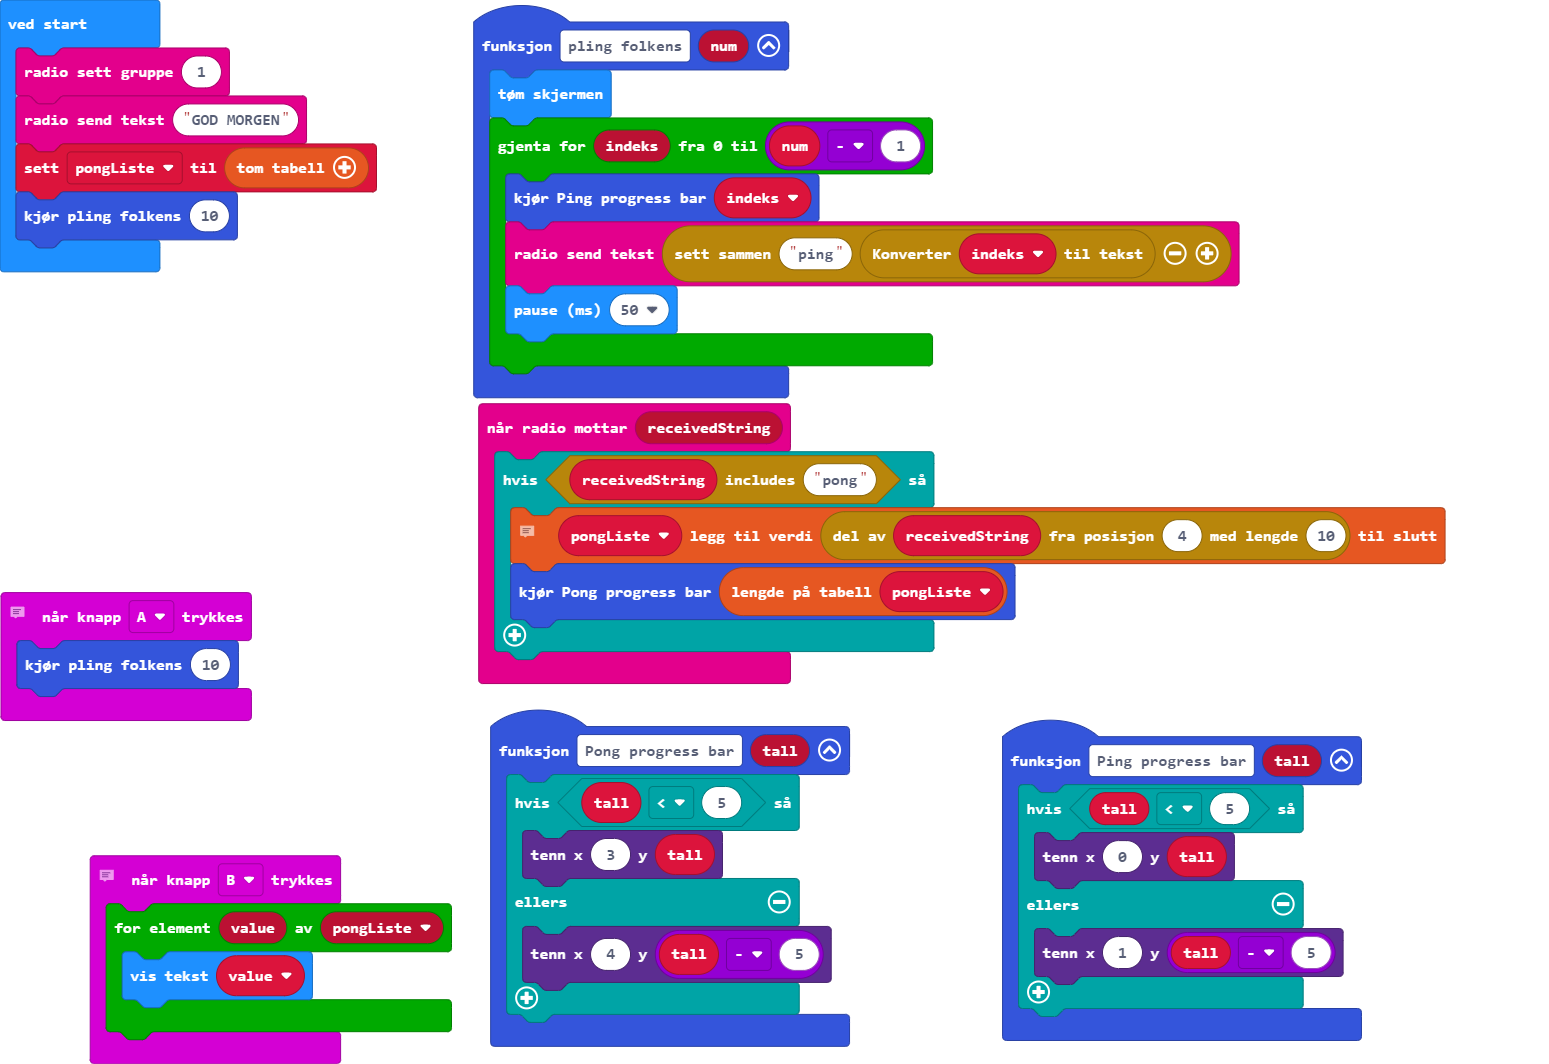
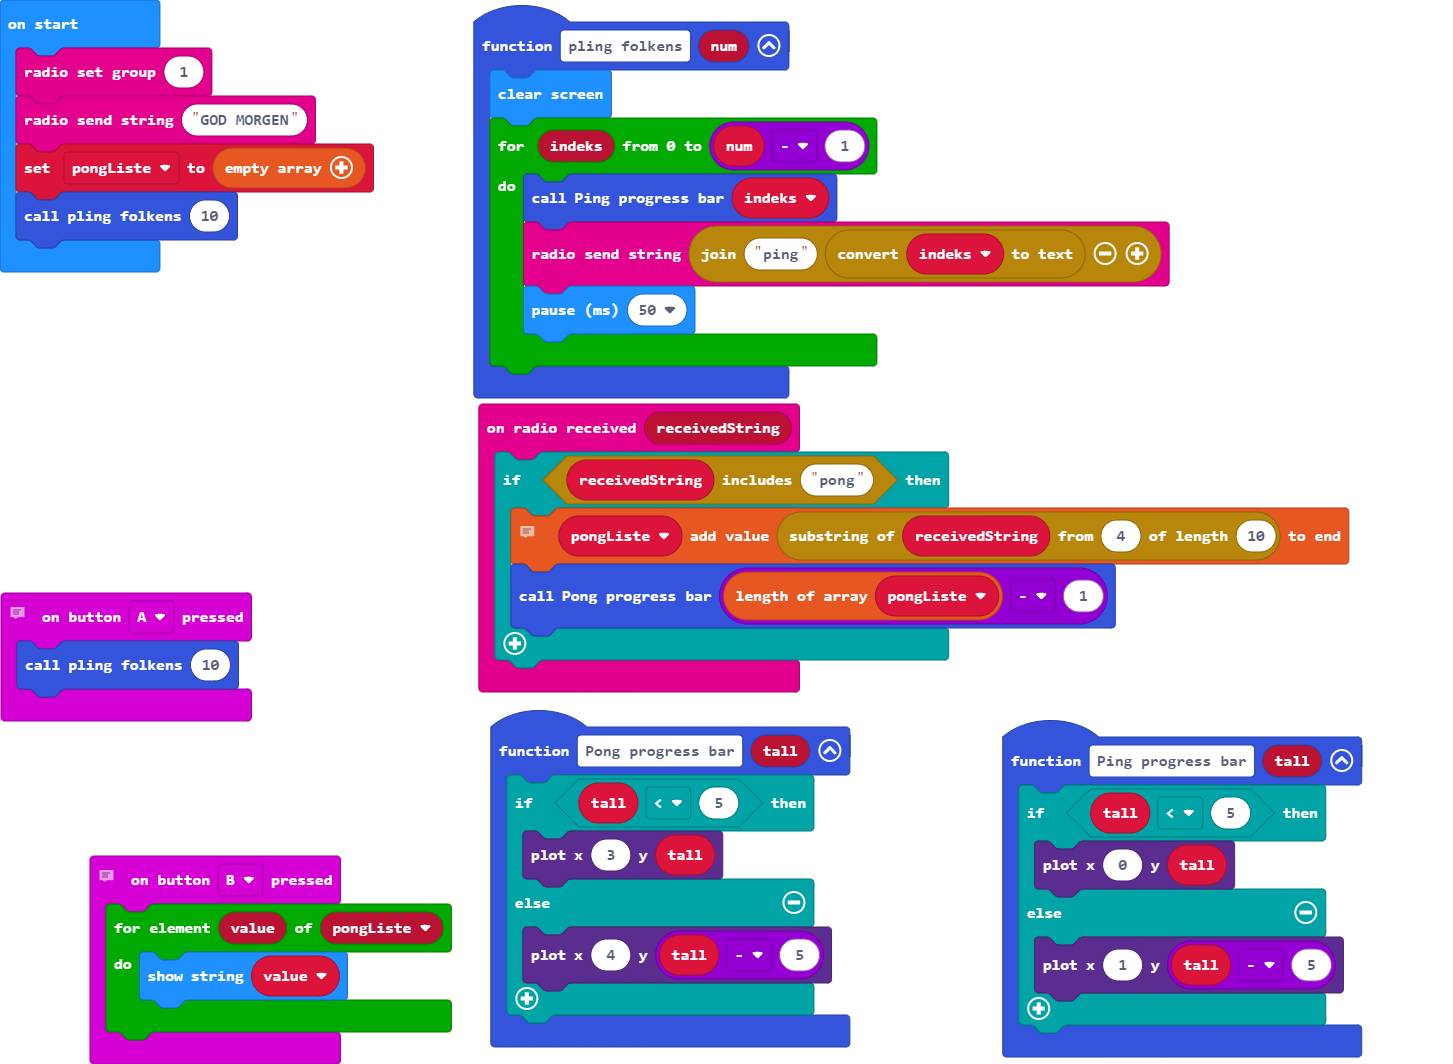
piksel på pong-bar matcher

diff --git a/main.ts b/main.ts
@@ -28,7 +28,7 @@ radio.onReceivedString(function (receivedString) {
     if (receivedString.includes("pong")) {
         // Klipper vekk "pong" fra svaret, så kun IDtallet gjenstår
         pongListe.push(receivedString.substr(4, 10))
-        Pong_progress_bar(pongListe.length)
+        Pong_progress_bar(pongListe.length - 1)
     }
 })
 // List opp alle som har svart at de er våken
